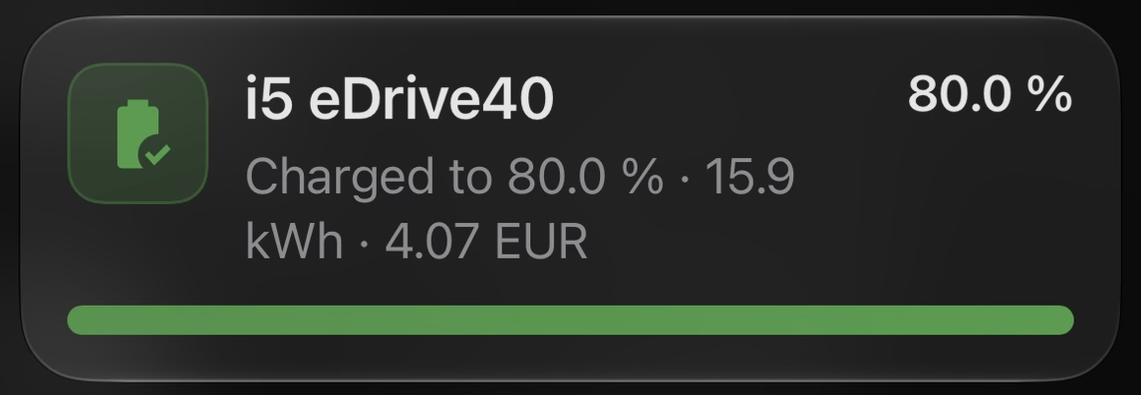
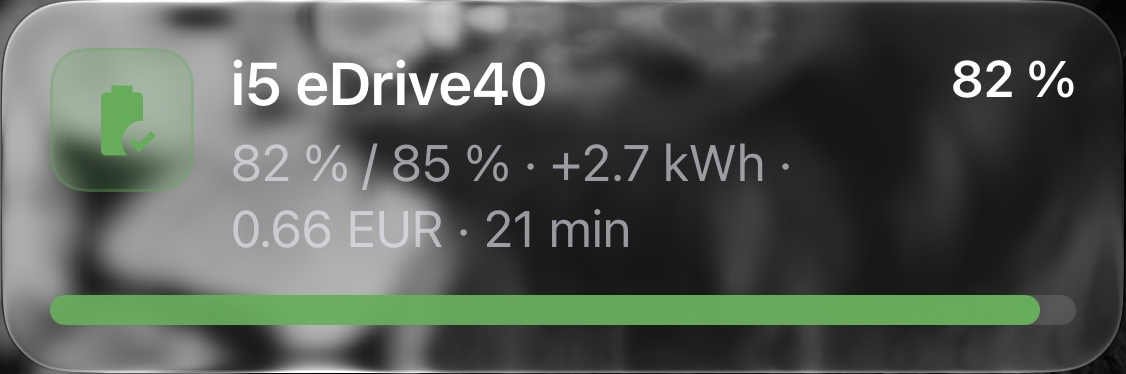
Show the lock-screen card at a start and stop its countdown at a stop
Live, 3 Nov: charging_started came a moment before the charging status
turned from the last charge's chargingended, and beta.6's "has it ended?"
guard stopped the card's run on its first round, before anything was sent.
The first round no longer checks.

The same evening the car stopped at 82 of 85 % with the cable in. The
integration holds such a stop five minutes before it announces the end;
the card's run quit on the status without a word, and the phone counted
down until the result came. The card now refreshes when the status
changes, drops the countdown and the power and shows a pause mark, and
waits for the result or for the car to carry on. Its guard ends the run
only on the car's own chargingended or a stop older than the hold.

The wiki gets Chris's photos of the result, the held-open Dynamic Island
and the island's result.

diff --git a/tests_ha/test_blueprint_lock_screen.py b/tests_ha/test_blueprint_lock_screen.py
@@ -469,6 +469,72 @@ async def test_an_end_while_the_card_is_updating_still_shows_the_result(
     assert sent[-2:] == [f"✓{NB}80{NB}% · +11.9{NB}kWh", "clear_notification"]
 
 
+async def test_a_start_before_the_status_follows_still_shows_the_card(
+    hass: HomeAssistant,
+) -> None:
+    """Live, 3 Nov: ``charging_started`` came in the same second as the status
+    turned to charging, but before it: the card's run read the last charge's
+    ``chargingended``, took the charge for over and sent nothing."""
+
+    await _car(
+        hass,
+        states={**STATES, "vehicle.drivetrain.electricEngine.charging.status": "chargingended"},
+    )
+    calls = await _automation(hass)
+    status = _entity(hass, "vehicle.drivetrain.electricEngine.charging.status")
+
+    hass.bus.async_fire("bavariandata_charging_started", {"vin": VIN, "soc": 40, "target_soc": 80})
+    await _settle()
+    hass.states.async_set(status, "chargingactive", {**hass.states.get(status).attributes})
+    await _settle()
+
+    (first,) = calls
+    assert first.data["data"]["critical_text"] == f"52{NB}→{NB}80{NB}% · 10.8{NB}kW"
+    await _later(hass, 2.1)
+    assert len(calls) == 2
+
+
+async def test_a_stop_short_of_the_target_stops_the_countdown_at_once(
+    hass: HomeAssistant,
+) -> None:
+    """Live, 3 Nov: stopped at 82 of 85 % with the cable in, the integration waits
+    five minutes for the car to carry on before it announces the end; the card's
+    run stopped without a word and the phone counted down all that time."""
+
+    await _car(hass)
+    calls = await _automation(hass, keep_minutes=0)
+    status = _entity(hass, "vehicle.drivetrain.electricEngine.charging.status")
+    hass.bus.async_fire("bavariandata_charging_started", {"vin": VIN, "soc": 40, "target_soc": 80})
+    await _settle()
+
+    hass.states.async_set(status, "nocharging", {**hass.states.get(status).attributes})
+    await _settle()
+    held = calls[-1].data
+    assert held["message"] == f"⏸{NB}→{NB}80{NB}% · +6.3{NB}kWh"
+    assert held["data"]["chronometer"] is False
+    assert held["data"]["critical_text"] == f"52{NB}→{NB}80{NB}%"
+
+    # The car carries on: the countdown comes back.
+    await _later(hass, 1)
+    hass.states.async_set(status, "chargingactive", {**hass.states.get(status).attributes})
+    await _settle()
+    assert calls[-1].data["data"]["chronometer"] is True
+
+    # It stops again, and the result follows five minutes later; nothing covers it.
+    hass.states.async_set(status, "nocharging", {**hass.states.get(status).attributes})
+    await _settle()
+    for _ in range(3):
+        await _later(hass, 2.1)
+    hass.bus.async_fire("bavariandata_charging_stopped", _ended(complete=False, soc=52.0))
+    await _settle()
+    await _later(hass, 1)
+    assert calls[-2].data["message"].startswith(f"52{NB}%{NB}/{NB}80{NB}%")
+    assert calls[-1].data["message"] == "clear_notification"
+    count = len(calls)
+    await _later(hass, 30)
+    assert len(calls) == count
+
+
 async def test_at_the_target_the_corner_drops_the_arrow(hass: HomeAssistant) -> None:
     await _car(hass, states={**STATES, "soc_estimate": "80"})
     calls = await _automation(hass)

diff --git a/docs/documentation-plan.md b/docs/documentation-plan.md
@@ -310,7 +310,7 @@ entities (from `tools/derived_entities.json`) need explicit prose:
 | Device triggers (arrived at / left a zone, trip ended anywhere, parked unlocked, parked with a window open, plugged in but not charging, charging started / completed / stopped before the target, preconditioning started / finished, alarm went off, new Check Control message) — offered only when the car can fire them; live values only, nothing fires from a restart; edges only on a fresh streamed value; the first Check Control list only seeds; alarm unverified on a real alarm; `trigger.data` per type | 🟢 Feature-Automations → "Device triggers" (both languages); 📷 `automation-device-triggers.png` (both languages; predates the six new triggers — reshoot once installed live) |
 | Trigger events (`bavariandata_zone_*`, `bavariandata_trip_ended`, `bavariandata_situation`, `bavariandata_charging_interrupted`, `bavariandata_charging_paused`/`_resumed` (finished at once, pauses after 2 min, one session), `bavariandata_preconditioning`, `bavariandata_alarm`, `bavariandata_check_control`) | 🟢 Feature-Automations → "Events" |
 | Vehicle-report event (`bavariandata_vehicle_report`: new odometer reading held 5 min; first reading only seeds; no repeat, no restart replay) | 🟢 Feature-Automations → "Events" (EN + DE) |
-| Automation blueprints (9: stop at target, notify complete, charging on the lock screen, cable → switch, arriving home, rain + open window, frost + unplugged, tire losing pressure, car left open at night) | 🟡 Feature-Automations → "Starter blueprints" (EN + DE): installed and updated by the integration (hand-edited left alone; copies imported by URL show twice and are updated too), phones from a list with *Older setting*, cars-only picker, the lock-screen card (bar up to the target, refresh on a power change, *Wallbox power*, symbols instead of words, the result's duration) with its charging and Dynamic Island screenshots; arriving home states that intent is unknown, the start-zone filter and Waze/Google/Proximity as sources |
+| Automation blueprints (9: stop at target, notify complete, charging on the lock screen, cable → switch, arriving home, rain + open window, frost + unplugged, tire losing pressure, car left open at night) | 🟡 Feature-Automations → "Starter blueprints" (EN + DE): installed and updated by the integration (hand-edited left alone; copies imported by URL show twice and are updated too), phones from a list with *Older setting*, cars-only picker, the lock-screen card (bar up to the target, refresh on a power change, *Wallbox power*, symbols instead of words, the result's duration, ⏸ while a stop short of the target is held) with its charging, result and Dynamic Island (compact, held open, result) screenshots; arriving home states that intent is unknown, the start-zone filter and Waze/Google/Proximity as sources |
 | Assist / LLM: the BavarianData LLM API (six tools: status, range check (battery and tank on a PHEV or fuel car), charging, driving month, mileage, efficiency), how to tick it in the agent and the MCP server, what the AI sees (no VIN, position, trip ids or curves) | 🟢 Feature-Assist-and-AI (EN + DE); Feature-Automations keeps a pointer |
 | Smart charging with other integrations (EV Smart Charging, Predbat: which entity goes where, the predicted SoC as the planner's input, the iX3 target caveat, home-only cable blueprint) | 🟢 Feature-Smart-Charging (EN + DE) |
 | API quota + Repairs issue | 🟡 |

diff --git a/docs/wiki/de/DE-Feature-Automations.md b/docs/wiki/de/DE-Feature-Automations.md
@@ -231,11 +231,17 @@ liegen, sodass Automationen daraus weiter funktionieren.
 
   <img src="https://raw.githubusercontent.com/JustChr/BavarianData/main/screenshots/automation-lock-screen-charging.png?v=2026-11-03" alt="Eine Live-Aktivität auf dem Sperrbildschirm eines iPhones: der Name des Autos, 75 → 80 % · 10.2 kW in der Ecke, ein Countdown von 21:55 bis zum Ziel und der Batteriebalken fast beim Ziel" width="420" />
 
-  Auf einem iPhone mit Dynamic Island läuft der Countdown auch dort.
+  Auf einem iPhone mit Dynamic Island läuft der Countdown auch dort; lange
+  gedrückt zeigt sie die ganze Karte.
 
   <img src="https://raw.githubusercontent.com/JustChr/BavarianData/main/screenshots/automation-lock-screen-island.png?v=2026-11-03" alt="Die Dynamic Island des iPhones beim Laden: links das Symbol des ladenden Autos, rechts ein Countdown von 3:52:43 bis zum Ziel" width="300" />
 
-  Endet der Ladevorgang, zeigt die Karte ✓ und den erreichten Ladestand (oder,
+  <img src="https://raw.githubusercontent.com/JustChr/BavarianData/main/screenshots/automation-lock-screen-island-expanded.png?v=2026-11-03" alt="Die aufgezogene Dynamic Island: der Name des Autos, darunter → 85 % · +1.8 kWh, ein Countdown von 17:54 und der Batteriebalken fast beim Ziel" width="420" />
+
+  Hört das Auto vor dem Ziel auf zu laden und steckt das Kabel noch, hält der
+  Countdown sofort an und die Karte zeigt ⏸, denn das Auto kann von selbst
+  weiterladen; tut es das, läuft der Countdown wieder. Endet der Ladevorgang,
+  zeigt die Karte ✓ und den erreichten Ladestand (oder,
   wenn das Ziel nicht erreicht wurde, beides), was geladen wurde, wie lange es
   gedauert hat (und mit Tarif, was es gekostet hat), und verschwindet nach den
   eingestellten Minuten. Sie wird alle paar Minuten aktualisiert (*Update
@@ -244,7 +250,11 @@ liegen, sodass Automationen daraus weiter funktionieren.
   wieder auf. Die Karte nutzt Symbole und Einheiten statt
   Wörter und liest sich so in jeder Sprache gleich.
 
-  <img src="https://raw.githubusercontent.com/JustChr/BavarianData/main/screenshots/automation-lock-screen-charged.png?v=2026-11-02" alt="Dieselbe Karte nach dem Laden: Charged to 80 %, 15.9 kWh, 4.07 EUR, der Balken voll" width="420" />
+  <img src="https://raw.githubusercontent.com/JustChr/BavarianData/main/screenshots/automation-lock-screen-charged.png?v=2026-11-04" alt="Dieselbe Karte nach einem Ladevorgang, der vor dem Ziel endete: 82 % / 85 % · +2.7 kWh · 0.66 EUR · 21 min, 82 % in der Ecke, der Balken fast beim Ziel" width="420" />
+
+  Die Dynamic Island zeigt den erreichten Ladestand, bis die Karte verschwindet.
+
+  <img src="https://raw.githubusercontent.com/JustChr/BavarianData/main/screenshots/automation-lock-screen-island-charged.png?v=2026-11-04" alt="Die Dynamic Island nach dem Laden: links eine Batterie mit Haken, rechts 82 %" width="300" />
 
   - Braucht die Companion-App mit **Live-Aktivitäten** (iPhone: iOS 17.2 und
     Home Assistant 2026.7 oder neuer) oder **Live-Updates** (Android 16 oder

diff --git a/docs/wiki/Feature-Automations.md b/docs/wiki/Feature-Automations.md
@@ -220,11 +220,16 @@ integration leaves every copy, so an automation made from one keeps working.
 
   <img src="https://raw.githubusercontent.com/JustChr/BavarianData/main/screenshots/automation-lock-screen-charging.png?v=2026-11-03" alt="A Live Activity on an iPhone lock screen: the car's name, 75 → 80 % · 10.2 kW in the corner, a countdown of 21:55 to the target and the battery bar nearly up to the target" width="420" />
 
-  On an iPhone with a Dynamic Island, the countdown runs there too.
+  On an iPhone with a Dynamic Island, the countdown runs there too; touch and
+  hold it for the whole card.
 
   <img src="https://raw.githubusercontent.com/JustChr/BavarianData/main/screenshots/automation-lock-screen-island.png?v=2026-11-03" alt="The iPhone's Dynamic Island while the car charges: the charging car icon on the left, a countdown of 3:52:43 to the target on the right" width="300" />
 
-  When the charge ends, the card shows ✓ and the level reached (or, short of
+  <img src="https://raw.githubusercontent.com/JustChr/BavarianData/main/screenshots/automation-lock-screen-island-expanded.png?v=2026-11-03" alt="The Dynamic Island held open: the car's name, → 85 % · +1.8 kWh under it, a countdown of 17:54 and the battery bar nearly up to the target" width="420" />
+
+  If the car stops short of the target with the cable still in, the countdown
+  stops at once and the card shows ⏸, since the car may carry on by itself;
+  when it does, the countdown comes back. When the charge ends, the card shows ✓ and the level reached (or, short of
   the target, both), what went in, how long it took (and the cost, with a
   tariff set), then clears itself after the minutes you set. It refreshes
   every few minutes (*Update every*), and at once when the charging power
@@ -232,7 +237,11 @@ integration leaves every copy, so an automation made from one keeps working.
   still running. The card uses symbols and units
   rather than words, so it reads the same in every language.
 
-  <img src="https://raw.githubusercontent.com/JustChr/BavarianData/main/screenshots/automation-lock-screen-charged.png?v=2026-11-02" alt="The same card once the charge ended: Charged to 80 %, 15.9 kWh, 4.07 EUR, the bar full" width="420" />
+  <img src="https://raw.githubusercontent.com/JustChr/BavarianData/main/screenshots/automation-lock-screen-charged.png?v=2026-11-04" alt="The same card once a charge stopped short of its target: 82 % / 85 % · +2.7 kWh · 0.66 EUR · 21 min, 82 % in the corner, the bar nearly at the target" width="420" />
+
+  The Dynamic Island keeps the level reached until the card clears.
+
+  <img src="https://raw.githubusercontent.com/JustChr/BavarianData/main/screenshots/automation-lock-screen-island-charged.png?v=2026-11-04" alt="The Dynamic Island after the charge: a battery with a check mark on the left, 82 % on the right" width="300" />
 
   - Needs the Companion app with **Live Activities** (iPhone: iOS 17.2 and
     Home Assistant 2026.7 or later) or **Live Updates** (Android 16 or later).

diff --git a/CHANGELOG.md b/CHANGELOG.md
@@ -9,6 +9,18 @@ stable release (v0.8.1); releases before that used auto-generated notes.
 
 ## [Unreleased]
 
+### Fixed
+- **The lock-screen card shows up again when a charge starts.** Since beta.6
+  the card checks on every round whether the charge has ended, and on the
+  first round it could still read the last charge's *charging ended*: the
+  start comes a moment before the charging status says so. It then stopped
+  before sending anything. The first round no longer checks.
+- **The lock-screen card stops counting down when the car stops.** A car that
+  stops short of its target with the cable still in gets five minutes to carry
+  on before the charge counts as over, and all that time the card kept counting
+  down as if it were still charging. It now stops the countdown at once and
+  shows ⏸; if the car carries on, the countdown comes back.
+
 ## [0.9.25-beta.6] - 2026-11-03
 
 ### Changed
